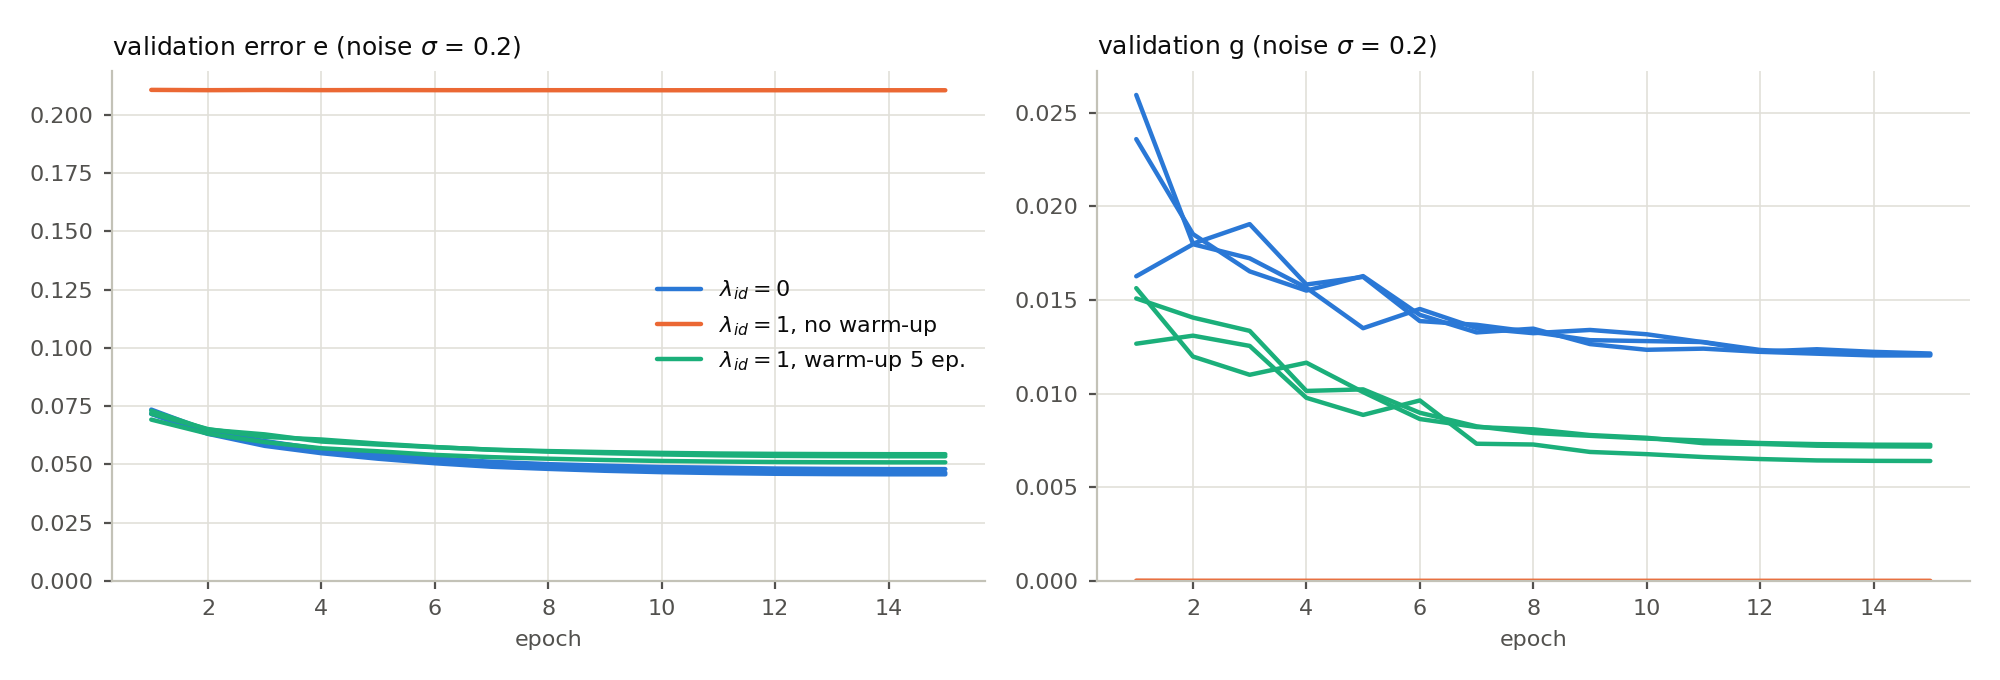
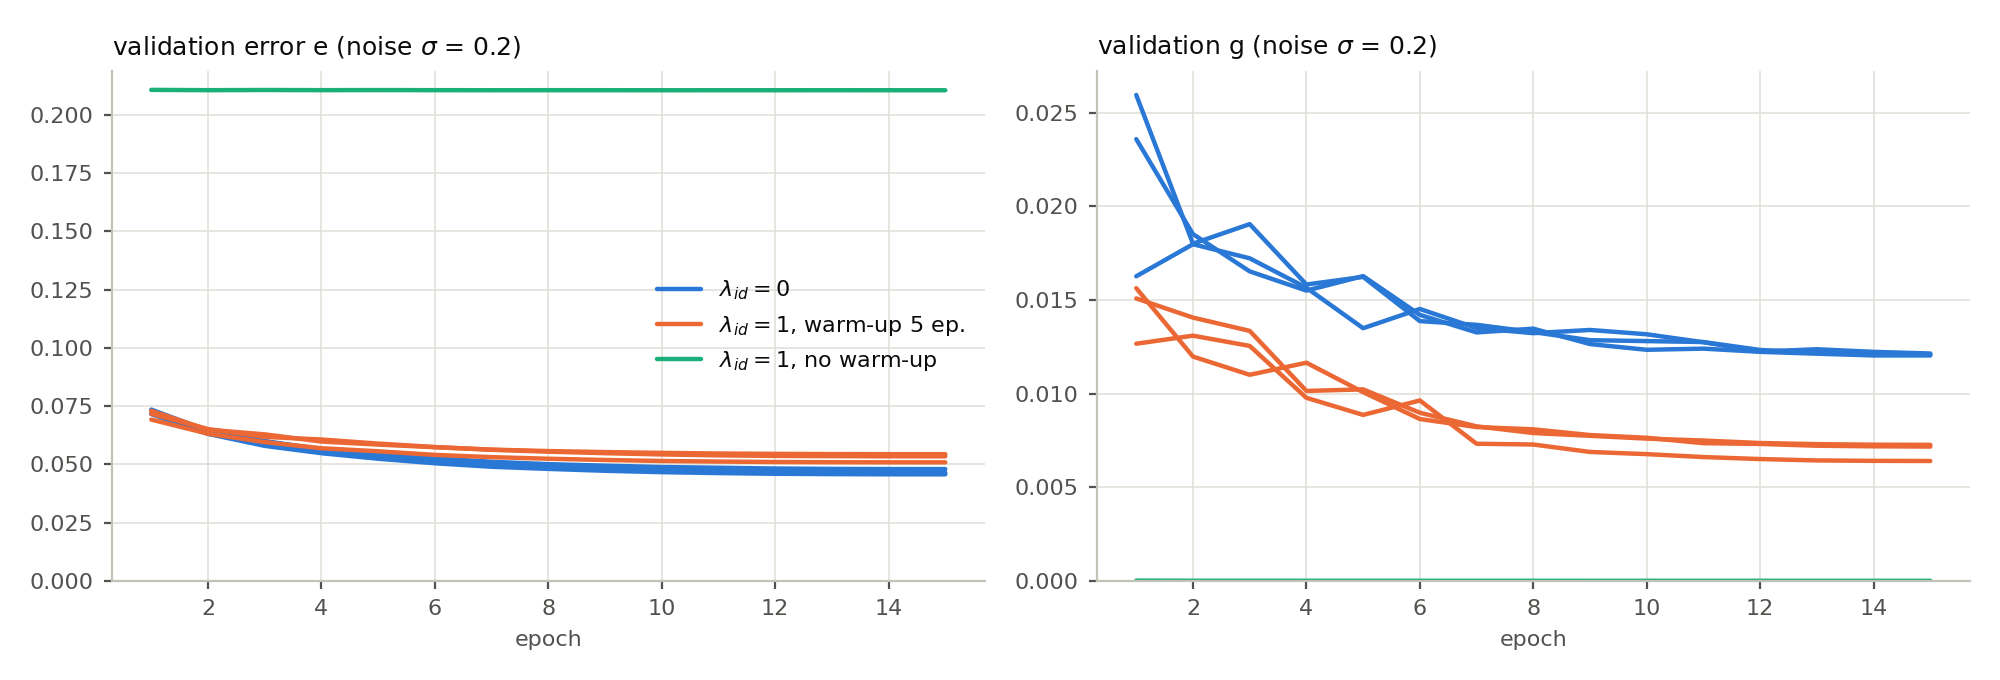
Fix the pipeline scripts' failure modes and stale docstrings
evaluate_models.py:
- --append checks for the earlier run before computing anything, and
  compares every argument that changes the signals or scores;
- --ensemble with --append must include every seed of a group, since
  disagreement compares the seeds;
- --from-per-image names requested signals missing from the dump,
  checks --seed and --n-boot against the earlier run, and records only
  the arguments that affect re-scoring;
- the final message reports this run's time, not the first run's.

compare_models.py: --groups is required (its default failed on both
folders), and every figure uses the same colour for a group, so the
training curves are regenerated. checks.py and explore_sure.py get
argument parsers, so --help no longer runs them. plot_models.py drops a
dead helper that called an unimported function. rank_metrics raises on
non-finite input instead of ranking NaN last.

Docstrings: corruption draws depend on the batch as well as the seed;
q is NaN below 1e-12; the isotonic fits choose their direction; the
conformal bound returns a dict, and the example no longer overwrites
the folder Table 2 reads; checks.py no longer states the explanation of
the collapse that the skip model falsified; train_dae.py describes both
collapses; lambda_id also took 0.1.

diff --git a/scripts/evaluate_models.py b/scripts/evaluate_models.py
@@ -20,7 +20,6 @@ import argparse
 import json
 import platform
 import time
-from pathlib import Path
 
 import numpy as np
 import pandas as pd
@@ -154,10 +153,12 @@ def merge_with_existing(out, summary, metrics, per_image, run_info, scored=None)
     """
     new_models = set(run_info["models"])
     previous = json.loads((out / "run_info.json").read_text())
-    if previous["args"]["n_eval"] != run_info["args"]["n_eval"] or \
-            previous["args"]["seed"] != run_info["args"]["seed"] or \
-            previous["args"]["n_boot"] != run_info["args"]["n_boot"]:
-        raise SystemExit("--append needs the same --n-eval, --seed and --n-boot as the earlier run")
+    # Arguments that change the signals or the scores must match; a key the earlier run did not
+    # record (it predates the option) is not compared.
+    for key in ("n_eval", "seed", "n_boot", "probes", "jacobian_families", "iterate_steps"):
+        if key in previous["args"] and previous["args"][key] != run_info["args"][key]:
+            raise SystemExit(f"--append needs the same --{key.replace('_', '-')} as the earlier run "
+                             f"({previous['args'][key]!r}, not {run_info['args'][key]!r})")
 
     def combine(name, frame, reader):
         old = reader(out / name)
@@ -194,8 +195,20 @@ def main():
     if args.jobs > 1 and args.device != "cpu":
         raise SystemExit("--jobs > 1 needs --device cpu: CUDA models cannot be sent to worker processes")
     out = REPO_ROOT / args.out
+    # Fail before hours of computation, not after.
+    if args.append and not args.from_per_image:
+        missing = [name for name in ("run_info.json", "summary.csv", "per_image.csv.gz")
+                   if not (out / name).exists()]
+        if missing:
+            raise SystemExit(f"--append adds to an earlier run in {out}, which lacks {missing}")
     out.mkdir(parents=True, exist_ok=True)
     t0 = time.perf_counter()
+    if args.from_per_image:
+        previous = json.loads((out / "run_info.json").read_text()) if (out / "run_info.json").exists() else {}
+        for key in ("seed", "n_boot"):
+            if key in previous.get("args", {}) and previous["args"][key] != getattr(args, key):
+                raise SystemExit(f"--from-per-image needs the same --{key.replace('_', '-')} as the "
+                                 f"run in {out} ({previous['args'][key]!r})")
 
     x_test, y_test = load_fashion_mnist("test", dtype=torch.float64)
     x, labels = x_test[:args.n_eval], y_test[:args.n_eval]
@@ -205,6 +218,9 @@ def main():
         if args.n_eval != per_image["image"].nunique():
             raise SystemExit(f"--from-per-image has {per_image['image'].nunique()} images, "
                              f"but --n-eval={args.n_eval}")
+        absent = [s for s in (args.signals or []) if s not in per_image.columns]
+        if absent:
+            raise SystemExit(f"signals not in {out / 'per_image.csv.gz'}: {absent}")
         if args.models:
             per_image = per_image[per_image["model"].isin(args.models)].reset_index(drop=True)
             if per_image.empty:
@@ -214,6 +230,15 @@ def main():
         run_models = list(dict.fromkeys(per_image["model"]))
     else:
         models, train_args = build_models(args)
+        if args.append and args.ensemble:
+            # dis compares the seeds of a group, so all of them must be evaluated together.
+            previous = json.loads((out / "run_info.json").read_text())["models"]
+            run_groups = {model_group(m) for m in models if "_seed" in m}
+            left_out = sorted(m for m in previous if "_seed" in m and model_group(m) in run_groups
+                              and m not in models)
+            if left_out:
+                raise SystemExit(f"--ensemble with --append needs every seed of a group in the same "
+                                 f"run; also evaluate {left_out}")
         print(f"Evaluating {len(x)} test images, {len(CONDITIONS)} conditions, "
               f"models: {list(models)}")
         per_image = per_image_signals(models, x, labels, seed=args.seed, probes=args.probes,
@@ -247,14 +272,18 @@ def main():
         "versions": {"python": platform.python_version(), "torch": torch.__version__,
                      "numpy": np.__version__, "pandas": pd.__version__},
     }
+    this_run_seconds = run_info["seconds"]["total"]  # merged run_info files keep the first run's
     if args.from_per_image:
         # Re-scoring never removes rows: replace the re-scored (model, signal) pairs, keep the rest.
         if metrics is not None and (out / "metrics.csv").exists():
             metrics = append_metrics_only(out, metrics, signal_list)
         previous = json.loads((out / "run_info.json").read_text())
+        # Only the arguments that affect re-scoring; checkpoints, projectors and probes do not.
+        scoring_args = {k: v for k, v in vars(args).items()
+                        if k in ("n_eval", "n_boot", "seed", "signals", "models", "jobs", "out")}
         run_info = previous | {
             "appended_runs": previous.get("appended_runs", []) + [
-                {"models": run_models, "seconds": run_info["seconds"], "args": run_info["args"],
+                {"models": run_models, "seconds": run_info["seconds"], "args": scoring_args,
                  "versions": run_info["versions"], "mode": "from_per_image"}],
         }
     elif args.append:
@@ -270,7 +299,7 @@ def main():
         metrics.to_csv(out / "metrics.csv", index=False, float_format="%.4f")
     (out / "run_info.json").write_text(json.dumps(run_info, indent=2))
     print_report(summary, metrics if metrics is not None else pd.DataFrame(), per_image)
-    print(f"\nWrote results to {out} in {run_info['seconds']['total']}s")
+    print(f"\nWrote results to {out} in {this_run_seconds}s")
 
 
 if __name__ == "__main__":

diff --git a/scripts/compare_models.py b/scripts/compare_models.py
@@ -33,8 +33,8 @@ SIGNAL_LABELS = {"g": "g  idempotence residual", "d": "d  displacement", "r_A": 
 def parse_args():
     parser = argparse.ArgumentParser(description=__doc__,
                                      formatter_class=argparse.RawDescriptionHelpFormatter)
-    parser.add_argument("--groups", nargs="*", default=None,
-                        help="model groups to compare (default: all autoencoder groups, at most 3)")
+    parser.add_argument("--groups", nargs="+", required=True,
+                        help=f"model groups to compare, at most {len(SERIES)}, e.g. dae_lam0 dae_lam1w5")
     parser.add_argument("--scatter-groups", nargs="*", default=None,
                         help="groups shown in g_vs_error.png (default: all compared groups)")
     parser.add_argument("--scatter-families", nargs="*", default=list(FAMILIES),
@@ -116,13 +116,11 @@ def blind_spot_table(per_image, groups):
     return pd.DataFrame(rows).groupby(["model_group", "family"], sort=False).mean().reset_index()
 
 
-def plot_training_curves(log_dir, path, groups):
+def plot_training_curves(log_dir, path, groups, colors):
     histories = {p.stem: pd.read_csv(p) for p in sorted(log_dir.glob("*_seed*.csv"))
                  if model_group(p.stem) in groups}
-    groups = list(dict.fromkeys(model_group(name) for name in histories))
-    if len(groups) > len(SERIES):
-        raise SystemExit(f"training_curves: {len(groups)} groups, but only {len(SERIES)} colours")
-    colors = dict(zip(groups, SERIES))
+    # Legend in the --groups order, with the same colours as the other figures.
+    histories = dict(sorted(histories.items(), key=lambda item: groups.index(model_group(item[0]))))
     fig, axes = plt.subplots(1, 2, figsize=(10, 3.4))
     panels = (("val_e@0.2", "validation error e"), ("val_g@0.2", "validation g"))
     for ax, (column, title) in zip(axes, panels):
@@ -142,12 +140,11 @@ def plot_training_curves(log_dir, path, groups):
     plt.close(fig)
 
 
-def plot_rho_by_condition(within, groups, path):
+def plot_rho_by_condition(within, groups, path, colors):
     conditions = [c.label for c in CONDITIONS]
     families = np.array([c.family for c in CONDITIONS])
     x = np.arange(len(conditions))
     offsets = np.linspace(-0.18, 0.18, len(groups)) if len(groups) > 1 else np.zeros(1)
-    colors = dict(zip(groups, SERIES))
     stats = (("spearman", r"Spearman $\rho$(signal, e)"), ("partial", r"partial $\rho$ given brightness b"))
     shown = within[within["signal"].isin(SIGNALS)]
     bottom = min(-0.1, np.floor(np.nanmin(shown[["spearman_min", "partial_min"]].to_numpy()) * 10) / 10)
@@ -201,7 +198,8 @@ def print_summary(errors, within, pooled, blind, groups):
     for stat in ("spearman", "partial"):
         table = (within[within["signal"].isin(SIGNALS)]
                  .groupby(["model_group", "signal"])[stat].median().unstack().reindex(index=groups))
-        show(f"Within-level {stat}, median over the 13 levels", table[list(SIGNALS)])
+        show(f"Within-level {stat}: median over the 13 levels of the mean over seeds "
+             "(Table 1 takes the median per seed, then the mean)", table[list(SIGNALS)])
     everything = pooled[(pooled["scope"] == "all")]
     for stat in ("spearman", "auroc"):
         table = everything.pivot(index="signal", columns="model_group", values=stat).reindex(columns=groups)
@@ -221,7 +219,7 @@ def main():
     per_image = pd.read_csv(results / "per_image.csv.gz")
 
     available = list(dict.fromkeys(summary["model"].map(model_group)))
-    groups = args.groups or [g for g in available if g.startswith("dae_")]
+    groups = args.groups
     missing = [g for g in groups if g not in available]
     if missing:
         raise SystemExit(f"groups not in the results: {missing}; available: {available}")
@@ -236,8 +234,9 @@ def main():
                         ("blind_spot", blind)):
         table.to_csv(out / f"{name}.csv", index=False, float_format="%.4f")
 
-    plot_training_curves(REPO_ROOT / args.logs, out / "training_curves.png", groups)
-    plot_rho_by_condition(within, groups, out / "rho_by_condition.png")
+    colors = dict(zip(groups, SERIES))  # one colour per group in every figure
+    plot_training_curves(REPO_ROOT / args.logs, out / "training_curves.png", groups, colors)
+    plot_rho_by_condition(within, groups, out / "rho_by_condition.png", colors)
     scatter_groups = [g for g in (args.scatter_groups or groups) if g in groups]
     first_model = {group: sorted(m for m in per_image["model"].unique() if model_group(m) == group)[0]
                    for group in scatter_groups}

diff --git a/scripts/checks.py b/scripts/checks.py
@@ -1,16 +1,18 @@
-"""Checks behind two claims in the report, written to results/checks.json.
+"""Three checks behind claims in the report, written to results/checks.json.
 
 collapse: the model trained with lambda_id = 1 and no warm-up outputs one constant image. We
     compare its validation error with that of the per-pixel median training image, which is the
     best constant under an L1 loss, and measure how much its output varies with the input.
 finite_differences: the pipeline estimates Jacobian-vector products with finite differences.
     We compare them with exact forward-mode products on the trained checkpoints.
-initialization: how constant each architecture is before training, which is the proposed reason
-    why the idempotence term collapses the bottleneck model.
+initialization: how constant each architecture is before training. A near-constant start was
+    the proposed reason for the collapse; the skip model starts about 1500 times less constant
+    and still collapses, so such a start is not required.
 
     python scripts/checks.py
 """
 
+import argparse
 import json
 
 import numpy as np
@@ -71,8 +73,9 @@ def finite_difference_check(n_eval=200, probes=4):
 def initialization_check(n=256, seeds=3):
     """How constant is each architecture at initialization, and how large is its residual there?
 
-    The collapse under lambda_id = 1 is explained by a network that starts almost constant: a
-    constant map is already idempotent, and becoming input-dependent first raises the residual.
+    Tests the proposed explanation of the collapse under lambda_id = 1: a constant map is already
+    idempotent, so a network that starts almost constant is pulled toward it. The skip model starts
+    far less constant than the bottleneck model and still collapses (see the report, Sec. 3.3).
     """
     x, _ = load_fashion_mnist("test", dtype=torch.float32)
     y, _ = observe(CONDITIONS[1], x[:n].double(), 0)
@@ -92,6 +95,9 @@ def initialization_check(n=256, seeds=3):
 
 
 def main():
+    # No options; the parser gives --help instead of silently rewriting checks.json.
+    argparse.ArgumentParser(description=__doc__,
+                            formatter_class=argparse.RawDescriptionHelpFormatter).parse_args()
     out = {"collapse": collapse_check(), "finite_differences": finite_difference_check(),
            "initialization": initialization_check()}
     path = REPO_ROOT / "results" / "checks.json"

diff --git a/src/fpr/metrics.py b/src/fpr/metrics.py
@@ -120,6 +120,11 @@ def rank_metrics(signals, error, clusters=None, n_boot=1000, seed=0, quantile=0.
     Returns a list of dicts, one per signal.
     """
     error = np.asarray(error, dtype=np.float64)
+    # Ranks would silently put NaN last; callers drop undefined signals first (see score()).
+    if not np.isfinite(error).all():
+        raise ValueError("error contains non-finite values")
+    if control is not None and not np.isfinite(np.asarray(control, dtype=np.float64)).all():
+        raise ValueError("control contains non-finite values")
     n = error.shape[0]
     labels = (error >= np.quantile(error, quantile)).astype(np.float64)[None, :]
     n_clusters = n if clusters is None else int(np.max(clusters)) + 1
@@ -127,6 +132,8 @@ def rank_metrics(signals, error, clusters=None, n_boot=1000, seed=0, quantile=0.
     prepared = {}
     for name, values in signals.items():
         values = np.asarray(values, dtype=np.float64)
+        if not np.isfinite(values).all():
+            raise ValueError(f"signal {name!r} contains non-finite values")
         constant = bool(np.ptp(values) <= atol)
         prepared[name] = (_TieGroups(np.zeros(n) if constant else values), constant)
     error_groups = _TieGroups(error)

diff --git a/src/fpr/conformal.py b/src/fpr/conformal.py
@@ -45,7 +45,11 @@ def conformal_quantile(scores, alpha):
 
 
 def isotonic_fit_predict(signal_fit, error_fit, signal_all, eps=1e-6):
-    """Fit e ~ signal on the fitting rows; predict for every row."""
+    """Fit e ~ signal on the fitting rows; predict for every row.
+
+    The fit is monotone in the direction the fitting rows choose (increasing="auto"), so a signal
+    that is anti-correlated with the error there is used reversed.
+    """
     model = IsotonicRegression(increasing="auto", out_of_bounds="clip")
     model.fit(np.asarray(signal_fit, dtype=np.float64),
               np.asarray(error_fit, dtype=np.float64))
@@ -53,7 +57,8 @@ def isotonic_fit_predict(signal_fit, error_fit, signal_all, eps=1e-6):
 
 
 def normalized_bound(signal, error, calibration_mask, alpha=0.1, eps=1e-6, fit_mask=None):
-    """Return (e_hi, coverage_on_held_out, mean_width_on_held_out, q_hat).
+    """Return a dict: e_hi and u_hat for every row, the conformal factor q_hat, and the coverage
+    and mean width of e_hi on the held-out rows.
 
     u_hat is fit on `fit_mask` and the scores come from `calibration_mask`; all other rows are
     held out. Without `fit_mask`, u_hat is fit on the calibration rows themselves, which makes

diff --git a/scripts/train_dae.py b/scripts/train_dae.py
@@ -8,9 +8,10 @@ and blur and masks are unseen operators. The last 5,000 training images are held
 for validation; the test set is used only by the evaluation scripts.
 
 With lambda_id = 1 from the first step, the network collapses within one epoch to a
-constant output, the per-pixel median image: g = 0 and validation error 0.21 for every
-seed. --lambda-warmup ramps lambda_id linearly from 0 over the given number of epochs,
-so the network learns to denoise before the idempotence term reaches full weight.
+constant output: the bottleneck model to the per-pixel median image (validation error 0.21,
+g about 1e-6), the skip model (--architecture skip) to black (0.29, g about 1e-10).
+--lambda-warmup ramps lambda_id linearly from 0 over the given number of epochs, so the
+network learns to denoise before the idempotence term reaches full weight.
 
     python scripts/train_dae.py --lambda-id 0 --seed 0
     python scripts/train_dae.py --lambda-id 1 --lambda-warmup 5 --seed 0

diff --git a/src/fpr/signals.py b/src/fpr/signals.py
@@ -25,10 +25,12 @@ First-order signals (`jacobian_signals`), from Jacobian-vector products:
 For Gaussian noise with known sigma, Stein's unbiased estimate of the per-pixel MSE is
     sure = d_mse - sigma^2 + 2 sigma^2 div.
 
-Multi-step residuals (`iterate_signals`):
+Multi-step residuals (`compute_signals(iterate_steps=...)`, which the pipeline uses, and the
+standalone `iterate_signals`, which the tests check against it):
 
     g_k  = (1/|Omega|) |f^{k+1}(y) - f^k(y)|_1   for k = 1, 2, 3
-    q    = g_2 / g_1                               contraction ratio (NaN when g_1 = 0)
+    q    = g_2 / g_1                               contraction ratio (NaN when g_1 <= 1e-12,
+                                                   round-off level, e.g. exact projectors)
 
 g_1 coincides with g. Deeper steps probe |J_f^k delta|; if the Jacobian cancels the
 displacement, more iterations cannot recover the information.

diff --git a/scripts/calibrate.py b/scripts/calibrate.py
@@ -38,7 +38,11 @@ def parse_args():
 
 
 def isotonic_predictions(frame, calibration, signal, by):
-    """Fit e ~ signal on the calibration half of each group and predict for the whole group."""
+    """Fit e ~ signal on the calibration half of each group and predict for the whole group.
+
+    The fit is monotone in the direction the calibration half chooses (increasing="auto"); the skip
+    model's d and r_A, anti-correlated with the error under noise, are used reversed there.
+    """
     predictions = pd.Series(np.nan, index=frame.index)
     for _, rows in frame.groupby(by, sort=False):
         fitted = rows[calibration.loc[rows.index]]

diff --git a/scripts/explore_sure.py b/scripts/explore_sure.py
@@ -12,6 +12,8 @@ since it is what we would use for a black-box CNN.
     python scripts/explore_sure.py
 """
 
+import argparse
+
 import numpy as np
 import torch
 from scipy.stats import spearmanr
@@ -71,4 +73,9 @@ def main(n_eval=2000, seed=123):
 
 
 if __name__ == "__main__":
-    main()
+    parser = argparse.ArgumentParser(description=__doc__,
+                                     formatter_class=argparse.RawDescriptionHelpFormatter)
+    parser.add_argument("--n-eval", type=int, default=2000)
+    parser.add_argument("--seed", type=int, default=123)
+    cli = parser.parse_args()
+    main(n_eval=cli.n_eval, seed=cli.seed)

diff --git a/src/fpr/evaluation.py b/src/fpr/evaluation.py
@@ -46,7 +46,11 @@ def _map(work, items, jobs):
 
 
 def observe(condition, x, seed):
-    """Corrupt x under `condition`; the random draw depends only on `seed` and the condition."""
+    """Corrupt x under `condition`, drawing from a generator seeded by `seed` and the condition.
+
+    The draws also depend on x itself (its size, dtype and image order), so the same images in
+    the same order and dtype give the same observations.
+    """
     gen = torch.Generator().manual_seed(seed + zlib.crc32(condition.label.encode()))
     return condition(x, gen)
 

diff --git a/scripts/conformal.py b/scripts/conformal.py
@@ -2,8 +2,10 @@
 
 Writes coverage, width, shift and SURE-self-calibration tables under results/conformal/.
 
-    python scripts/conformal.py
-    python scripts/conformal.py --results results/models --out results/conformal
+    python scripts/conformal.py                    # both result folders -> results/conformal
+    python scripts/conformal.py --results results/models --out results/conformal_bottleneck
+
+Table 2 of the report reads results/conformal and needs both folders, so write a subset elsewhere.
 """
 
 import argparse

diff --git a/src/fpr/degradations.py b/src/fpr/degradations.py
@@ -6,7 +6,9 @@ r_A(y) = |A f(y) - y| needs A at inference time, so the random mask or kernel
 must travel with the observation.
 
 All randomness is drawn on the CPU from an explicit torch.Generator, so a seed
-gives the same corruptions on every machine and device.
+gives the same corruptions on every machine and device for the same batch. The draws
+also depend on the batch itself: its size, dtype and image order (a mask drawn for a
+subset of the images differs from the same images' masks in the full set).
 """
 
 import math
